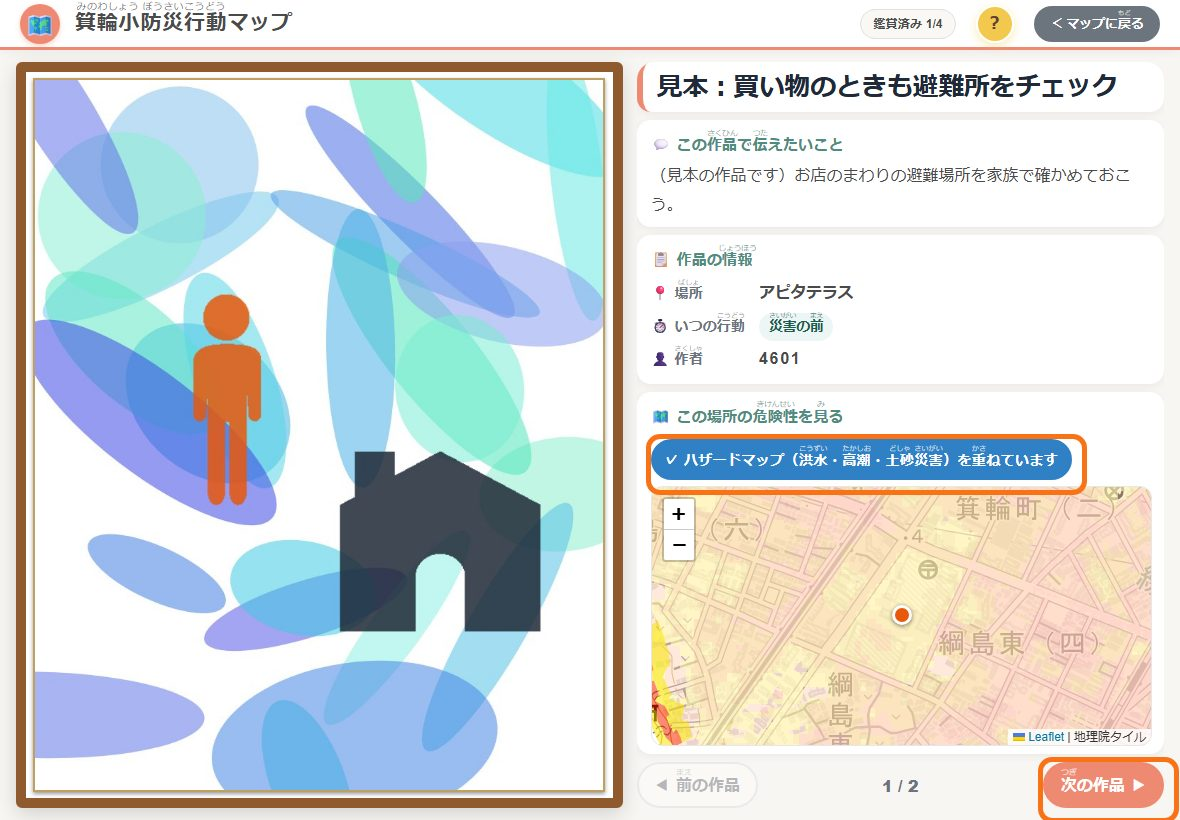
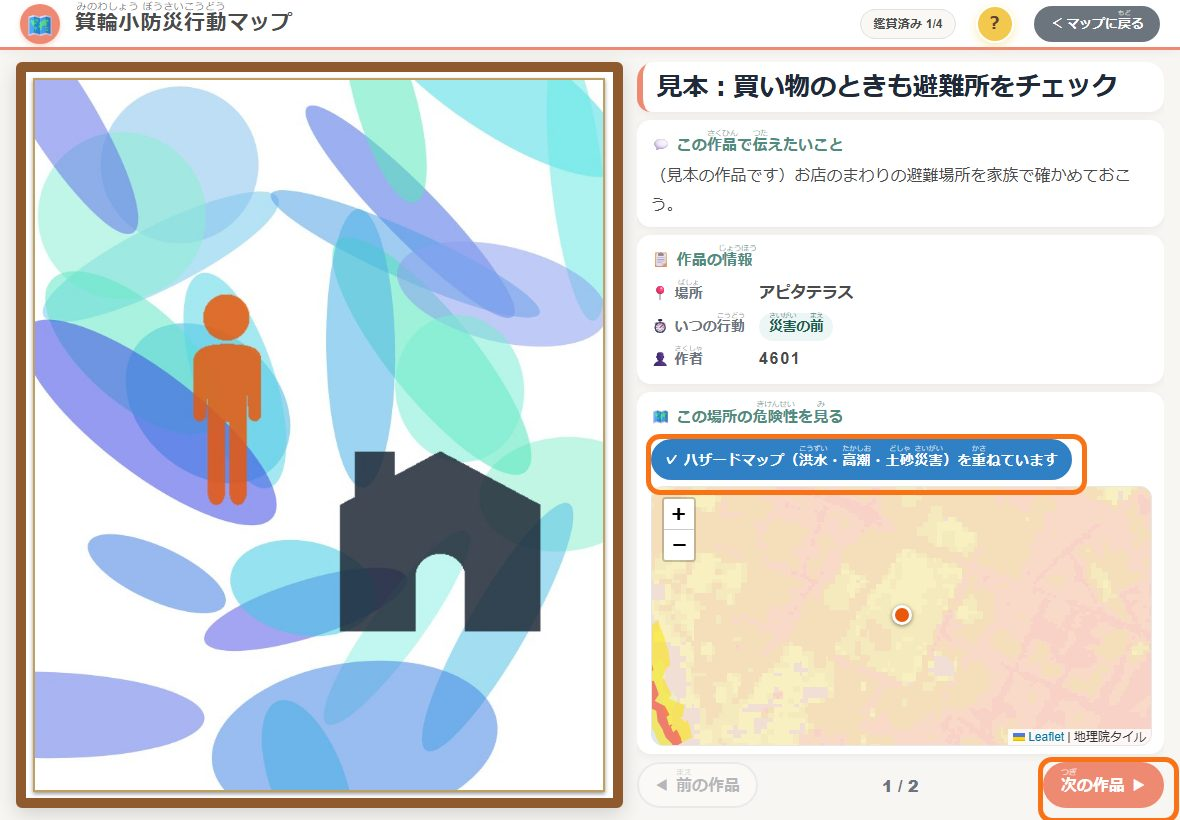
綱島駅を新綱島駅に変更、地図の切りかえを「白地図（はくちず）／写真」に
- 新綱島駅の座標は国土地理院の住所検索 API の「新綱島駅」の点（35.536551, 139.636642）
- 地点の種類の値も tsunashima → shintsunashima（Worker も同じに）
- 使い方の写真を撮り直し

diff --git a/workshop/common/places.js b/workshop/common/places.js
@@ -1,11 +1,10 @@
 // workshop/common/places.js（箕輪小版）
 // 作品にする地点は、次の6つから児童が選ぶ。
-//   固定5か所：アピタテラス／綱島駅／コンフォール南日吉／日吉の丘／北綱島ポンプ場（座標は固定）
+//   固定5か所：アピタテラス／新綱島駅／コンフォール南日吉／日吉の丘／北綱島ポンプ場（座標は固定）
 //   その他    ：地図をタップしてピンを置いた場所（緯度経度だけを保存する。場所名は入力させない）
-// 座標は国土地理院の住所検索 API（msearch.gsi.go.jp/address-search）で 2026/11/14 に取得・確認した値
+// 座標は国土地理院の住所検索 API（msearch.gsi.go.jp/address-search）で 2026/11/14 に取得・確認した値（新綱島駅は 2026/11/18）
 //   アピタテラス     綱島東四丁目3番            35.54195, 139.641434（API の値＝参考値と同じ）
-//   綱島駅           東急東横線 綱島駅の駅舎     35.53674, 139.63468 （API の「綱島駅」の点 35.537229, 139.632891 は
-//                                                駅舎の西約160m の注記位置のため、駅舎の上の点にした。住所は API の逆引きで綱島西一丁目）
+//   新綱島駅         東急新横浜線 新綱島駅       35.536551, 139.636642（API の「新綱島駅」の点。住所は API の逆引きで綱島東一丁目）
 //   コンフォール南日吉 日吉本町四丁目10番        35.546082, 139.634018（API の値。UR 団地の中心付近）
 //   日吉の丘         箕輪町三丁目13番           35.548008, 139.642441（API の値。日吉の丘公園）
 //   北綱島ポンプ場    日吉六丁目14番1号          35.53960528, 139.65348008（参考値。API の値 35.539631, 139.652786 と同じ街区内・約60m）
@@ -16,7 +15,7 @@
 (function () {
   window.MINOWA_PLACES = [
     { id: 'apita',        name: 'アピタテラス',                     plain: 'アピタテラス',       short: 'アピタテラス',                     lat: 35.54195,    lon: 139.641434,   color: '#e8590c' },
-    { id: 'tsunashima',   name: '綱島駅{つなしまえき}',              plain: '綱島駅',             short: '綱島駅{つなしまえき}',              lat: 35.53674,    lon: 139.63468,    color: '#2f80ed' },
+    { id: 'shintsunashima', name: '新綱島駅{しんつなしまえき}',      plain: '新綱島駅',           short: '新綱島駅{しんつなしまえき}',      lat: 35.536551,   lon: 139.636642,    color: '#2f80ed' },
     { id: 'conforte',     name: 'コンフォール南日吉{みなみひよし}',   plain: 'コンフォール南日吉', short: 'コンフォール南日吉{みなみひよし}',   lat: 35.546082,   lon: 139.634018,   color: '#9333ea' },
     { id: 'hiyoshinooka', name: '日吉{ひよし}の丘{おか}',            plain: '日吉の丘',           short: '日吉{ひよし}の丘{おか}',            lat: 35.548008,   lon: 139.642441,   color: '#16a34a' },
     { id: 'pump',         name: '北綱島{きたつなしま}ポンプ場{じょう}', plain: '北綱島ポンプ場',   short: '北綱島{きたつなしま}ポンプ場{じょう}', lat: 35.53960528, lon: 139.65348008, color: '#0891b2' }

diff --git a/workshop/present/index.html b/workshop/present/index.html
@@ -87,8 +87,8 @@
       <div id="bottom-left-controls">
         <div class="control-group">
           <div class="basemap-buttons-container">
-            <button type="button" id="white-map-btn" class="basemap-btn active">白地図{しろちず}</button>
-            <button type="button" id="satellite-btn" class="basemap-btn">衛星{えいせい}</button>
+            <button type="button" id="white-map-btn" class="basemap-btn active">白地図{はくちず}</button>
+            <button type="button" id="satellite-btn" class="basemap-btn">写真{しゃしん}</button>
           </div>
         </div>
       </div>
@@ -148,9 +148,9 @@
   <!-- ▼ Leaflet 本体（同梱） -->
   <script src="./leaflet.js"></script>
   <script src="../common/config.js?v=minowa4"></script>
-  <script src="../common/places.js?v=minowa5"></script>
+  <script src="../common/places.js?v=minowa6"></script>
   <script src="../common/ruby.js?v=minowa4"></script>
-  <script src="./script.js?v=minowa10"></script>
+  <script src="./script.js?v=minowa11"></script>
 
   <div id="tutorial-overlay" class="tutorial-overlay" style="display: none;">
     <div class="tutorial-card">

diff --git a/worker/src/index.js b/worker/src/index.js
@@ -22,7 +22,7 @@ const MAX_TEXT = { field_23: 100, field_24: 500, field_25: 60, Message: 300, Bod
 const NUMBER_RE = /^46(0[1-9]|[1-3][0-9]|40)$/;
 // 地点の種類：固定5か所のどれか、または「その他」（児童が地図にピンを置いた場所）
 //   ※ workshop/common/places.js の MINOWA_PLACES の id と同じにする
-const PLACES = ["apita", "tsunashima", "conforte", "hiyoshinooka", "pump", "other"];
+const PLACES = ["apita", "shintsunashima", "conforte", "hiyoshinooka", "pump", "other"];
 // 綱島・日吉周辺：これより外の地点は受け付けない（places.js の MINOWA_AREA と同じ）
 const AREA = { south: 35.525, north: 35.565, west: 139.620, east: 139.670 };
 const TEXT_FIELDS = Object.keys(MAX_TEXT);

diff --git a/workshop/message/lastconfirm/final_submit_script.js b/workshop/message/lastconfirm/final_submit_script.js
@@ -8,7 +8,7 @@
  * - field_23 : いつの行動か（事前／災害時／復旧時）
  * - field_24 : 使わない（箕輪小版はハザードマップを選ばない。空のまま送る）
  * - field_25 : 作者の番号（4601〜4640）
- * - place    : 地点の種類（apita / tsunashima / conforte / hiyoshinooka / pump / other）
+ * - place    : 地点の種類（apita / shintsunashima / conforte / hiyoshinooka / pump / other）
  *   lat / lon : 固定5か所はその場所の固定の座標、other は児童が地図に置いたピンの座標
  * - Mabling・collage は使わない（空のまま）
  * 作品画像：localStorage.artworkImage（コラージュの自動保存で作られる）

diff --git a/workshop/map/Log/log_hazard_map_script.js b/workshop/map/Log/log_hazard_map_script.js
@@ -4,7 +4,7 @@
  * - 「その他」：地図をタップしてピンを置く（綱島・日吉周辺の枠の中だけ）→「ここでいいかな？」で確かめる
  *   保存するのは緯度経度だけ（場所名は入力させない）
  * - 保存先：localStorage.minowa_hazardMapLog = { location:{ lat, lon, place, name } }
- *   place は apita / tsunashima / conforte / hiyoshinooka / pump / other
+ *   place は apita / shintsunashima / conforte / hiyoshinooka / pump / other
  *   （キーの名前は元のアプリのまま。ハザードマップの選択はなくした）
  */
 

diff --git a/workshop/message/artwork/artwork_submit.html b/workshop/message/artwork/artwork_submit.html
@@ -77,7 +77,7 @@
         <button type="button" class="s7-zoom-close" id="artZoomClose">✕ とじる</button>
     </div>
     <script src="../../common/progress.js?v=minowa4"></script>
-    <script src="../../common/places.js?v=minowa5"></script>
+    <script src="../../common/places.js?v=minowa6"></script>
     <script src="../../common/ruby.js?v=minowa4"></script>
     <script src="./artwork_submit_script.js?v=minowa5"></script>
 </body>

diff --git a/workshop/map/Log/log_hazard_map.html b/workshop/map/Log/log_hazard_map.html
@@ -58,7 +58,7 @@
 
     <script src="https://unpkg.com/leaflet@1.9.4/dist/leaflet.js"></script>
     <script src="../../common/progress.js?v=minowa4"></script>
-    <script src="../../common/places.js?v=minowa5"></script>
+    <script src="../../common/places.js?v=minowa6"></script>
     <script src="../../common/ruby.js?v=minowa4"></script>
     <script src="./log_hazard_map_script.js?v=minowa5"></script>
 </body>

diff --git a/workshop/message/lastconfirm/final_submit.html b/workshop/message/lastconfirm/final_submit.html
@@ -54,7 +54,7 @@
 
     <script src="../../common/config.js?v=minowa4"></script>
     <script src="../../common/progress.js?v=minowa4"></script>
-    <script src="../../common/places.js?v=minowa5"></script>
+    <script src="../../common/places.js?v=minowa6"></script>
     <script src="../../common/ruby.js?v=minowa4"></script>
     <script src="./final_submit_script.js?v=minowa7"></script>
 </body>

diff --git a/workshop/present/detail.html b/workshop/present/detail.html
@@ -85,7 +85,7 @@
 
   <script src="./leaflet.js"></script>
   <script src="../common/config.js?v=minowa4"></script>
-  <script src="../common/places.js?v=minowa5"></script>
+  <script src="../common/places.js?v=minowa6"></script>
   <script src="../common/ruby.js?v=minowa4"></script>
   <script src="./detail_script.js?v=minowa14"></script>
 </body>

diff --git a/README.md b/README.md
@@ -15,7 +15,7 @@
 | ステップ | 画面 | ファイル |
 |---|---|---|
 | | はじめる（途中のデータがあれば「つづきから」） | `workshop/start/` |
-| 1 場所 | 作品にする場所を6つから選ぶ（アピタテラス／綱島駅／コンフォール南日吉／日吉の丘／北綱島ポンプ場／その他）。「その他」は地図をタップしてピンを置き、「ここでいいかな？」で確かめる | `workshop/map/Log/log_hazard_map.html` |
+| 1 場所 | 作品にする場所を6つから選ぶ（アピタテラス／新綱島駅／コンフォール南日吉／日吉の丘／北綱島ポンプ場／その他）。「その他」は地図をタップしてピンを置き、「ここでいいかな？」で確かめる | `workshop/map/Log/log_hazard_map.html` |
 | 2 マーブリング | マーブリング | `workshop/marbling/app/` |
 | 3 コラージュ | コラージュ | `workshop/collage/app/` |
 | 4 メッセージ | タイトル・伝えたいこと・いつの行動か・番号 → 確認して登録（選んだ場所を表示） | `workshop/message/artwork/`、`workshop/message/lastconfirm/` |
@@ -27,7 +27,7 @@
 ## 地点
 
 - 地点の定義と座標：`workshop/common/places.js`（固定5か所の座標は国土地理院の住所検索 API で取得・確認した値。出典はファイルの先頭に書いてある）
-- D1 の `place` 列：`apita`／`tsunashima`／`conforte`／`hiyoshinooka`／`pump`／`other`
+- D1 の `place` 列：`apita`／`shintsunashima`／`conforte`／`hiyoshinooka`／`pump`／`other`
 - `lat`／`lon`：固定5か所はその場所の座標、`other` は児童がピンを置いた座標（場所名は保存しない）
 - 「その他」のピンを置ける範囲（綱島・日吉周辺）：北緯 35.525〜35.565、東経 139.620〜139.670（`places.js` の `MINOWA_AREA` と `worker/src/index.js` の `AREA`。Worker もこの範囲外を受け付けない）
 - 防災行動マップ：固定5か所は「場所のピン（作品の数つき）」、「その他」の作品は作品ごとの小さなピン。「その他」の作品は場所の説明に「その他」と出し、「前の作品／次の作品」の対象にしない（1点ずつ表示）
@@ -77,6 +77,6 @@ node tools/e2e_flow.mjs http://127.0.0.1:8787 local-admin-key-for-test
 node tools/load_test_30.mjs http://127.0.0.1:8787 local-admin-key-for-test 40
 ```
 
-`tools/e2e_flow.mjs` は iPad の画面サイズ（横 1180×820 は固定の地点「綱島駅」、縦 820×1180 は「その他」）で最初から登録・防災行動マップまでを通しで動かし、全画面のスクリーンショットを `tools/out/screens/` に保存します。ルビのない漢字・横のはみ出し・JS エラー・ほかの版の Worker へのアクセスがないかも調べます。テストで登録した作品は最後に DELETE で消します。
+`tools/e2e_flow.mjs` は iPad の画面サイズ（横 1180×820 は固定の地点「新綱島駅」、縦 820×1180 は「その他」）で最初から登録・防災行動マップまでを通しで動かし、全画面のスクリーンショットを `tools/out/screens/` に保存します。ルビのない漢字・横のはみ出し・JS エラー・ほかの版の Worker へのアクセスがないかも調べます。テストで登録した作品は最後に DELETE で消します。
 
 防災行動マップの使い方の写真（`workshop/present/guide_0N.jpg`・`detail_guide_0N.jpg`）は、見本の作品で撮ってあります。授業で作品が登録されたら、本物の作品で撮り直せます（`node tools/make_guide_images.mjs`。使い方はファイルの先頭）。

diff --git a/docs/wording_changes.md b/docs/wording_changes.md
@@ -17,6 +17,8 @@
 | 防災行動マップ | 場所のボタン3つ・災害の種類の絞り込み・番号（例 4201） | 場所のボタン6つ（＋すべて）・災害の種類の絞り込みは削除（ハザードマップを重ねるボタンは残す）・番号（例 4601） |
 | 防災行動マップ（使い方） | 4年2組のみんなが…／タイトル・伝えたいこと・場所・災害・いつの行動か | 4年6組のみんなが…／タイトル・伝えたいこと・場所・いつの行動か |
 | 作品ページ | 災害の行・作品が選んだ災害だけ重ねる | 災害の行は出さない（災害が入っていない作品）・洪水・高潮・土砂災害をまとめて重ねる。「その他」の作品は「前の作品／次の作品」を出さない |
+| 場所の画面・防災行動マップ（2026/11/18） | 綱島駅 | 新綱島駅（地点の種類の値も tsunashima → shintsunashima） |
+| 防災行動マップ（地図の切りかえ・2026/11/18） | 白地図（しろちず）／衛星 | 白地図（はくちず）／写真 |
 
 ---
 

diff --git a/docs/cloudflare_setup.md b/docs/cloudflare_setup.md
@@ -95,7 +95,7 @@ cd .. && node tools/load_test_30.mjs https://minowa-submit.kazuki131214.workers.
 ## 受け付ける作品（`worker/src/index.js`）
 
 - 番号：4601〜4640（`NUMBER_RE`）。人数が決まったら、ここと `workshop/common/places.js` の `MINOWA_NUMBER_RE` を同じに直す
-- 地点の種類：`apita`／`tsunashima`／`conforte`／`hiyoshinooka`／`pump`／`other`（`PLACES`）
+- 地点の種類：`apita`／`shintsunashima`／`conforte`／`hiyoshinooka`／`pump`／`other`（`PLACES`）
 - 座標：綱島・日吉周辺（北緯 35.525〜35.565、東経 139.620〜139.670）の中だけ（`AREA`）
 
 「運営が確認してから公開」にしたいとき：INSERT 文の `'approved'` を `'pending'` にしてデプロイし、公開するときに次を実行します（`GET /artworks` は `status='approved'` だけを返す）。
